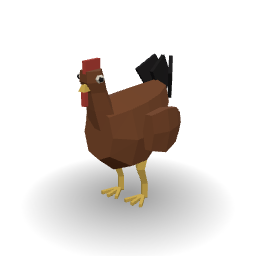
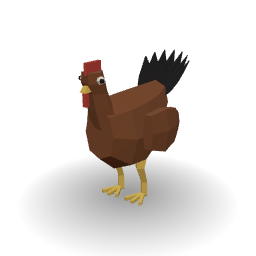
Hen: a raised, curved fan of seven pointed black tail feathers instead of three flat plates

diff --git a/art/scripts/biped_bird.py b/art/scripts/biped_bird.py
@@ -155,6 +155,35 @@ def _chicken_extras(ctx):
     ctx.make("comb", comb, lambda c_, n: "cloth_red", ["Head"], sub=0, smooth=False)
 
     _bird_eyes(ctx, CHICKEN_HEN)
+    _hen_tail(ctx)
+
+
+def _hen_tail(ctx, count=7, apart=13.0, length=0.27, root=(0.15, 0.335)):
+    """A raised, curved fan of tapering, pointed tail feathers: `count` of them `apart` degrees apart, the middle one the longest, each rising from the rump at 36 degrees and
+    curling up to 60 at the tip, rooted inside the body (root = y, z). A feather is a flat leaf (a diamond ring that is wide and thin, five stations from the root to the tip)."""
+    import math
+    from mathutils import Vector
+    c = ctx.common
+    half = count // 2
+
+    def feather(bm, k):
+        yaw = math.radians(k * apart)
+        ln = length * (1.0 - 0.14 * (abs(k) / max(half, 1)) ** 2)
+        p = Vector((0.0, root[0], root[1]))
+        rings = []
+        for i in range(6):
+            t = i / 5
+            rise = math.radians(36 + 24 * t)
+            d = Vector((math.sin(yaw) * math.cos(rise), math.cos(yaw) * math.cos(rise), math.sin(rise)))
+            u = Vector((math.cos(yaw), -math.sin(yaw), 0.0))               # across the feather
+            n = d.cross(u).normalized()                                    # through it
+            width = (0.014, 0.034, 0.042, 0.034, 0.018, 0.002)[i]
+            thick = 0.007 if i < 5 else 0.0015
+            rings.append([p + u * width, p + n * thick, p - u * width, p - n * thick])
+            p = p + d * (ln / 5)
+        c.loft(bm, rings)
+
+    ctx.make("tail_feathers", lambda bm: [feather(bm, k) for k in range(-half, half + 1)], lambda c_, n: "black", ["Tail1", "Tail2"], sub=0, smooth=False)
 
 
 CHICKEN_HEN = dict(
@@ -171,7 +200,7 @@ CHICKEN_HEN = dict(
     leg=dict(x=0.055, joints=(1, 2), toe=0.085,
              profile=[(0.24, 0.02, 0.034, 0.034), (0.13, 0.00, 0.02, 0.02), (0.06, 0.03, 0.015, 0.015), (0.0, 0.03, 0.015, 0.015)]),
     leg_colour="straw",
-    tail=[(0.36, 0.20), (0.43, 0.25), (0.48, 0.29)], tail_spread=0.04, tail_rise=32,
+    tail=[(0.40, 0.19), (0.46, 0.23), (0.51, 0.265)], tail_boxes=False,
     coat=lambda c, n: "brown_coat",
     tail_coat=lambda c, n: "black",
     neck_coat=lambda c, n: "brown_coat" if c.z < 0.44 else "brown_coat",

diff --git a/NOTES.md b/NOTES.md
@@ -237,5 +237,5 @@ Fable final review (own glTF reader): nothing blocking, 12 findings. Fixed in a 
 Issue #87 (the nine animals look wrong). Brief: `docs/assets/briefs/animals.md` (real sizes per species, the ratios, views to check). New `art/scripts/animal_proportions.py` (plain Python: measures a species dict, holds the ranges) is used by `audit_animals.py` (cat, collie and husky fail outside the ranges; the farm animals are printed as WARN until each is rebuilt) and by `tests/test_animal_proportions.py` (the ranges are ordered, match the brief's table, and the rebuilt species are inside them). **Rebuilt:** the cat (a 0.27 m back, a deeper barrel, a round head 31 % of the trunk with a short muzzle and bigger ears, a raised head, paws longer than wide), the collie (head 35 % of the trunk, a thicker muzzle, longer paws; the body is the same) and the husky (no longer `make_dog`: `species_farm_dog.make_husky` on the farm dog's builder with its own numbers: a 0.54 m dog with a deep chest, a broad head with a blunt muzzle, upright ears, a ruff and a tail curled over the back; the collie's ruff got a little wider at its back ring, so the larger neck does not show through it, grey and white with a white mask). Ids, bone names and clips are unchanged (dogs Idle, Walk, Trot, Run; cat Idle, Walk); the dogs' legs keep their lengths (28 cm) so their gaits are the same speeds. Triangles 660 to 676 (cat), 1048 (collie, unchanged), 660 to 1048 (the husky moved to the farm dog's builder). **Looked at:** all three from the right, front, top and three-quarter in Blender, and their thumbnails. **Not done:** the game's FBX exports (`out/`, `Assets/Art/Global/Animals/`) were not re-exported: every collie coat (`DOG_SKINS`) changed with the head and paws, so all five coats and the clips need exporting together; the other cats and dogs of `species_pets` (retriever, beagle, bulldog, dachshund, shepherd, stray, the cat coats) are generated by the same code, the cats now with the new shape; they are not in the browser. Cow, horse, pig, sheep, goat and hen are rebuilt in the next section. No paints are declared for the animals yet (the brief lists the coats to declare).
 
 ## Farm animals rebuilt: cow, horse, pig, sheep, goat, hen (2026-10-24, branch `claude/farm-animals-rework-200eda`)
-Second part of issue #87, on the brief and check of the first (the section above). `species.py`: new numbers for the five four-legged animals from real measurements (a Holstein 1.45 m at the withers with a 0.82 m deep barrel and the knee at 0.46 m; a horse of 15.2 hands (1.57 m) with a girth as deep as its legs are long; a market hog with 1.12 m of trunk, nearly as deep as wide; a ewe in wool 0.44 m wide; a dairy goat), bodies and heads on 10 and 8 sides instead of 8 and 6, thicker legs whose last ring flares into a dark hoof (no separate hoof part), a wider, longer head with a muzzle; extras moved to the new heads (cow horns and ears, horse mane and ears, pig ears, goat horns, beard and ears), a wool tuft on the sheep. `animal_proportions.py`: the head length is now measured along its slope (a horse's head is tipped 45 degrees; the first version measured the floor shadow), the horse's depth and elbow ranges start at 0.48 and 0.47 (the horseman's girth rule: about half the height; the brief's first estimate was too high), every four-legged species is `ENFORCED`, and the hen has its own table (`HEN`, `measure_bird`, `check_bird`: body length, width and depth, the legs under the body, the head over the back, the shank, the toes, the tail) that `audit_animals.py` checks. Hen (`biped_bird.CHICKEN_HEN`): an egg-shaped body with a full breast, a thicker neck, a raised and smaller tail, thicker legs with a bigger drumstick, longer toes, drawn 0.55 m to the comb tip and exported at 0.8 (0.44 m; the scale was 0.85). Ids, bone names and clips (Idle, Walk; the hen none) are unchanged. Triangles: cow 924 to 1000, horse 796 to 872, pig 672 to 744, sheep 672 to 736, goat 796 to 848, hen 658. `audit_animals.py`: 0 problems on the five and the hen; the three-view look (right, front, top, three-quarter) in Blender and the six thumbnails. The neck roots no longer stand above the back (the first build had an 11 cm hump on the cow and about 20 cm on the horse), and `measure_bird` takes H from the top of the head ring. The `body_n` and `head_n` of the five apply to the smooth style too (12 and 10 sides before); only faceted is exported. The back heights are the rings' half heights: a 10-sided ring has no top vertex, so the mesh is about 2 % lower than the stated H. Known cosmetic gaps, not fixed: the horse's tail root is 5 mm behind the rump, the hen's wings stand 1-3 mm off her body and her wattle 2 mm below the beak. **Not done:** the game's FBX exports (`out/`, `Assets/Art/Global/Animals/`) were not re-exported; the other species of `species.py` that are not in the site (the wildlife, the other dogs) were not looked at; no paints are declared for the farm animals (the coats are in the brief); the hoof is not cloven; the models were not looked at playing their clips in the site viewer (the walk script ran on each, with no foot slide above 7 cm).
+Second part of issue #87, on the brief and check of the first (the section above). `species.py`: new numbers for the five four-legged animals from real measurements (a Holstein 1.45 m at the withers with a 0.82 m deep barrel and the knee at 0.46 m; a horse of 15.2 hands (1.57 m) with a girth as deep as its legs are long; a market hog with 1.12 m of trunk, nearly as deep as wide; a ewe in wool 0.44 m wide; a dairy goat), bodies and heads on 10 and 8 sides instead of 8 and 6, thicker legs whose last ring flares into a dark hoof (no separate hoof part), a wider, longer head with a muzzle; extras moved to the new heads (cow horns and ears, horse mane and ears, pig ears, goat horns, beard and ears), a wool tuft on the sheep. `animal_proportions.py`: the head length is now measured along its slope (a horse's head is tipped 45 degrees; the first version measured the floor shadow), the horse's depth and elbow ranges start at 0.48 and 0.47 (the horseman's girth rule: about half the height; the brief's first estimate was too high), every four-legged species is `ENFORCED`, and the hen has its own table (`HEN`, `measure_bird`, `check_bird`: body length, width and depth, the legs under the body, the head over the back, the shank, the toes, the tail) that `audit_animals.py` checks. Hen (`biped_bird.CHICKEN_HEN`): an egg-shaped body with a full breast, a thicker neck, a raised, curved fan of seven tapering black tail feathers 13 degrees apart (rising 36 to 60 degrees from inside the rump; the first version's three flat plates read as one slab), thicker legs with a bigger drumstick, longer toes, drawn 0.55 m to the comb tip and exported at 0.8 (0.44 m; the scale was 0.85). Ids, bone names and clips (Idle, Walk; the hen none) are unchanged. Triangles: cow 924 to 1000, horse 796 to 872, pig 672 to 744, sheep 672 to 736, goat 796 to 848, hen 658 to 930. `audit_animals.py`: 0 problems on the five and the hen; the three-view look (right, front, top, three-quarter) in Blender and the six thumbnails. The neck roots no longer stand above the back (the first build had an 11 cm hump on the cow and about 20 cm on the horse), and `measure_bird` takes H from the top of the head ring. The `body_n` and `head_n` of the five apply to the smooth style too (12 and 10 sides before); only faceted is exported. The back heights are the rings' half heights: a 10-sided ring has no top vertex, so the mesh is about 2 % lower than the stated H. Known cosmetic gaps, not fixed: the horse's tail root is 5 mm behind the rump, the hen's wings stand 1-3 mm off her body and her wattle 2 mm below the beak. **Not done:** the game's FBX exports (`out/`, `Assets/Art/Global/Animals/`) were not re-exported; the other species of `species.py` that are not in the site (the wildlife, the other dogs) were not looked at; no paints are declared for the farm animals (the coats are in the brief); the hoof is not cloven; the models were not looked at playing their clips in the site viewer (the walk script ran on each, with no foot slide above 7 cm).
 
